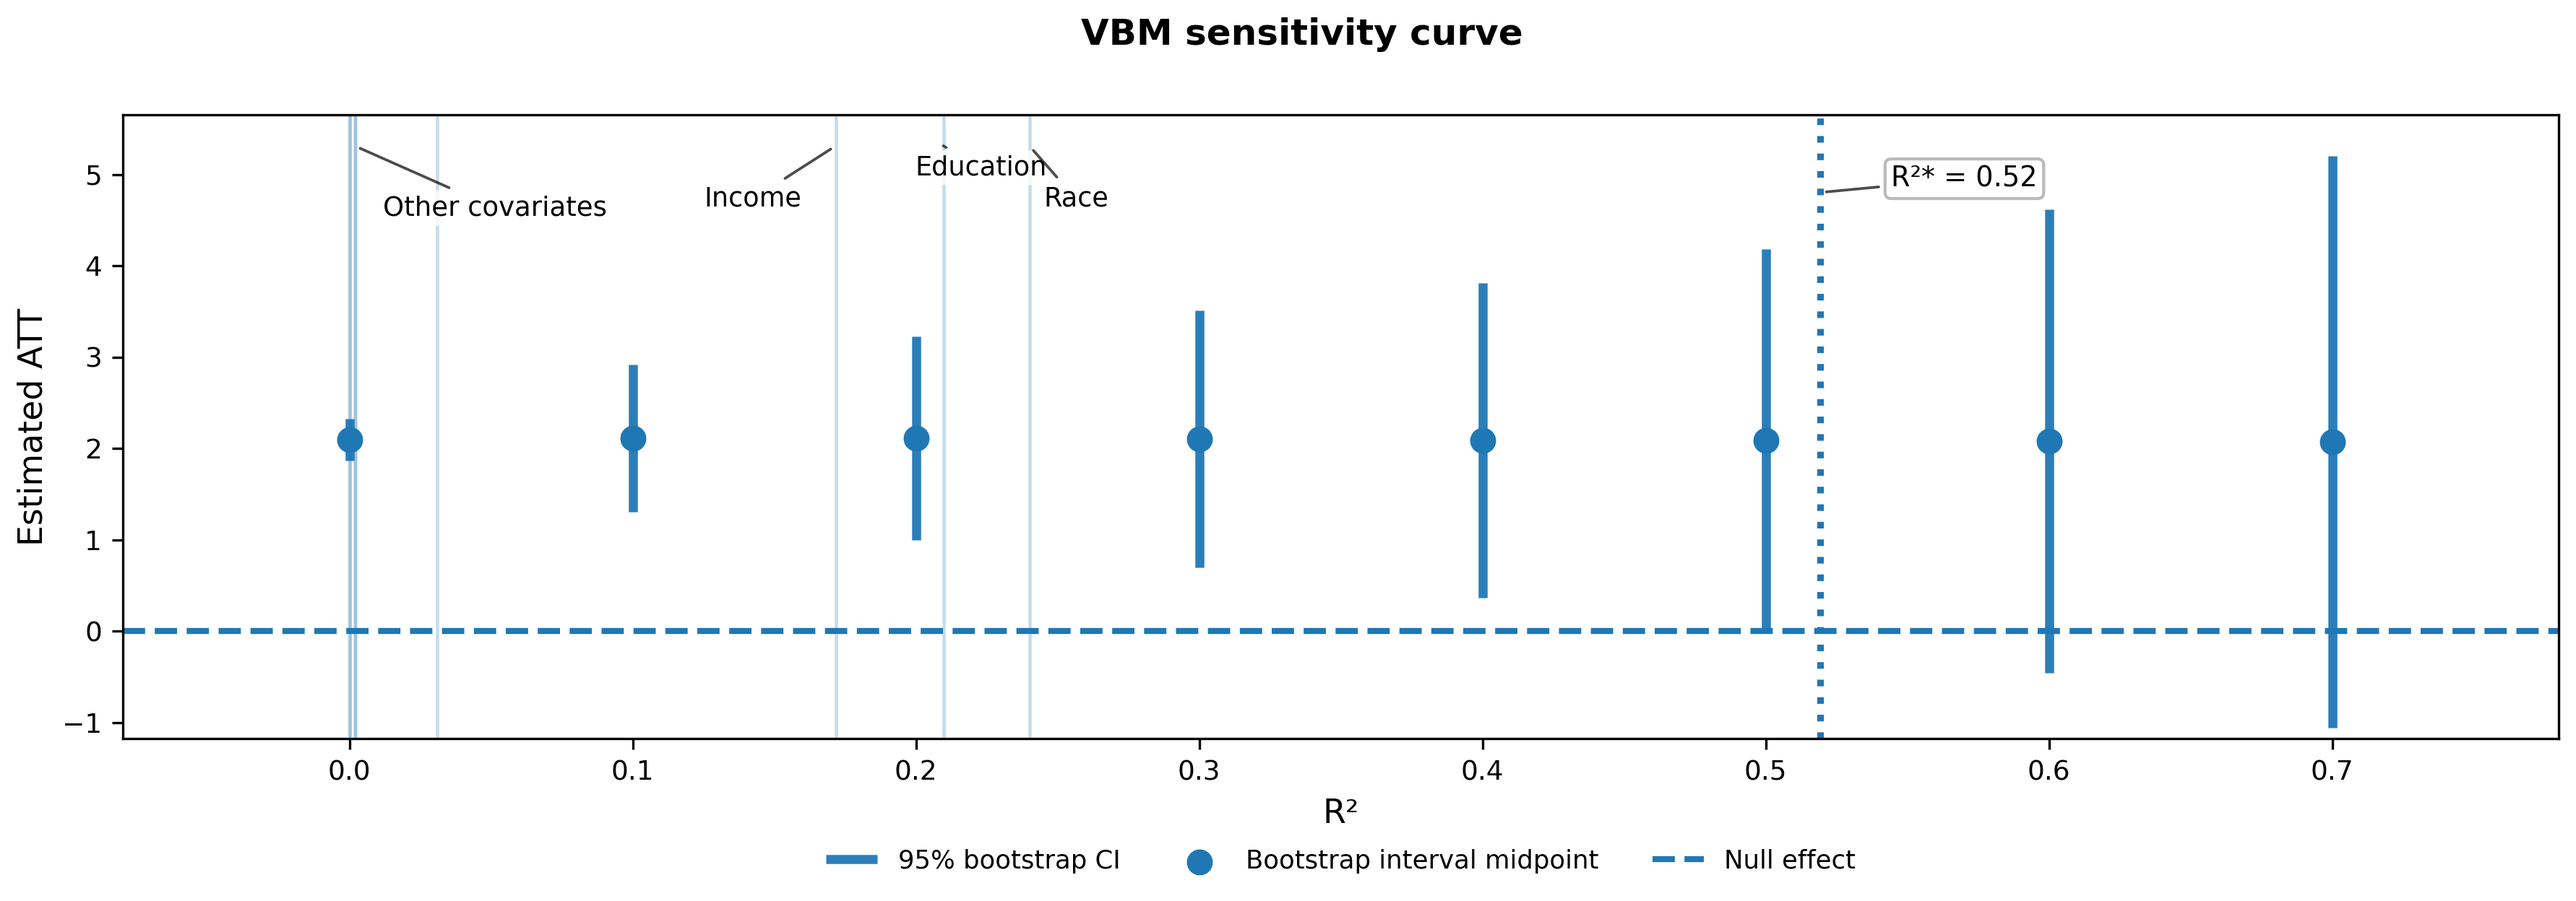
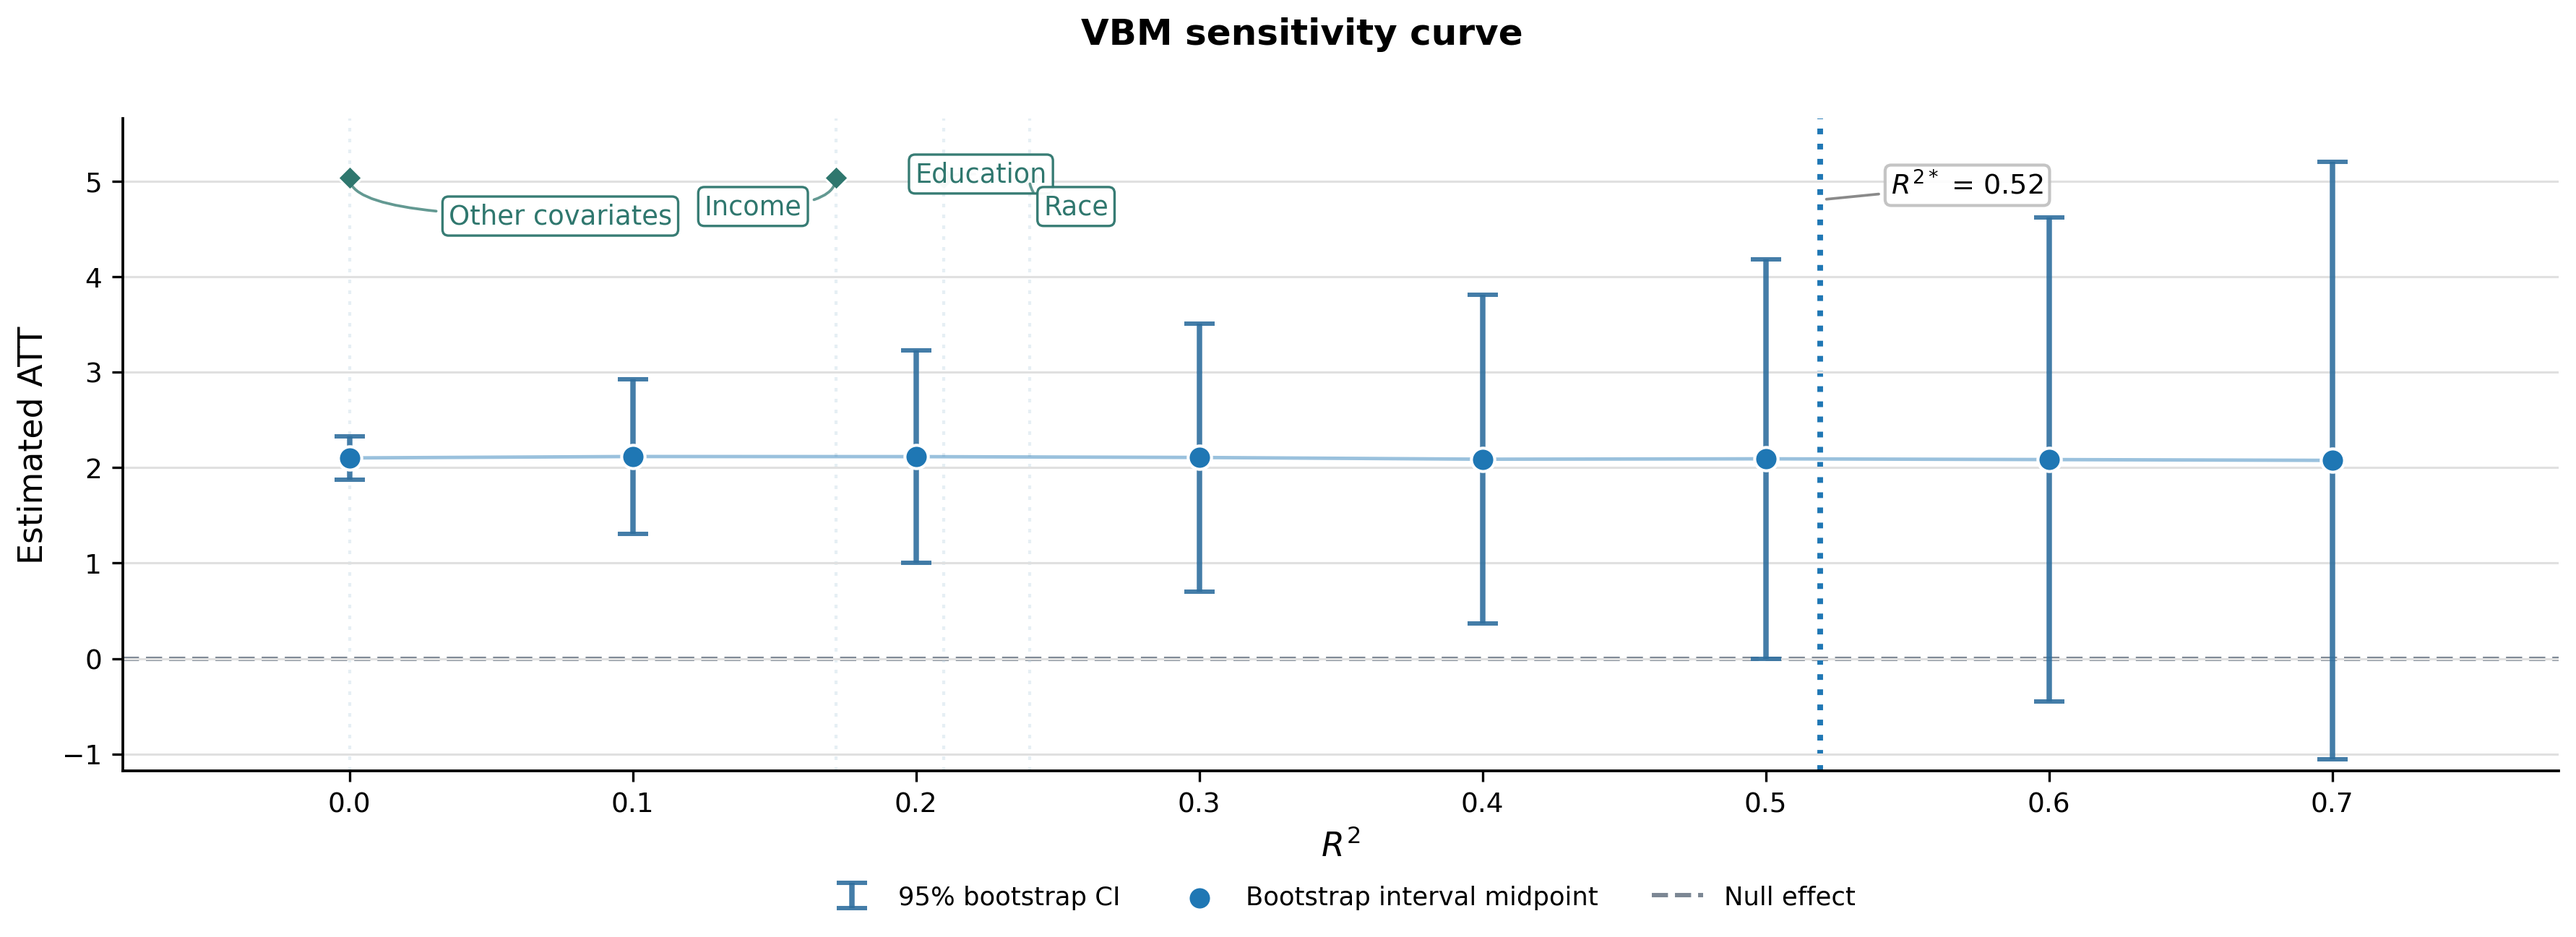
modify plot fig1

diff --git a/scripts/enhanced_plots.py b/scripts/enhanced_plots.py
@@ -218,32 +218,73 @@ def make_figure1(input_dir: Path, output_dir: Path) -> None:
         & (bmk["sensitivity_value"] <= xlim[1])
     ].copy()
 
-    fig, ax = plt.subplots(figsize=(14.5, 4.5))
+    # The left-cluster benchmark lines are visually indistinguishable at this scale.
+    # Plot them as a single grouped reference line at R2 = 0.
+    other_vars = {
+        "gender",
+        "age",
+        "income_missing",
+        "cig_smoked",
+        "smoking_history",
+    }
+    left_cluster_benchmark = bmk["variable"].isin(other_vars)
+    bmk["plot_x"] = bmk["sensitivity_value"].where(~left_cluster_benchmark, 0.0)
+
+    fig, ax = plt.subplots(figsize=(14.5, 4.7))
 
     # ---------------- Main plot ----------------
-    ax.vlines(
+    ci_color = "#2F6F9F"
+    point_color = "#1F77B4"
+    null_color = "#7C8794"
+    benchmark_color = "#A8C6DA"
+    label_color = "#2F776E"
+
+    yerr = np.vstack(
+        [
+            midpoints - ci_lower,
+            ci_upper - midpoints,
+        ]
+    )
+
+    ax.errorbar(
         xs,
-        ci_lower,
-        ci_upper,
-        linewidth=3,
-        color="#1f77b4",
-        alpha=0.95,
+        midpoints,
+        yerr=yerr,
+        fmt="none",
+        ecolor=ci_color,
+        elinewidth=1.8,
+        capsize=5.0,
+        capthick=1.45,
+        alpha=0.9,
         label="95% bootstrap CI",
-        zorder=1,
+        zorder=2,
+    )
+
+    ax.plot(
+        xs,
+        midpoints,
+        color=point_color,
+        linewidth=1.15,
+        alpha=0.45,
+        zorder=2.5,
     )
 
     ax.scatter(
         xs,
         midpoints,
-        s=58,
+        s=60,
+        color=point_color,
+        edgecolor="white",
+        linewidth=1.0,
         label="Bootstrap interval midpoint",
         zorder=3,
     )
 
     ax.axhline(
         0,
-        linewidth=2.0,
+        linewidth=1.45,
         linestyle="--",
+        color=null_color,
         label="Null effect",
         zorder=0,
     )
@@ -251,16 +292,19 @@ def make_figure1(input_dir: Path, output_dir: Path) -> None:
     if np.isfinite(r2_star):
         ax.axvline(
             r2_star,
-            linewidth=2.2,
+            linewidth=1.9,
             linestyle=":",
+            color=point_color,
             zorder=0,
         )
 
-    for _, row in bmk.iterrows():
+    for x in sorted(bmk["plot_x"].dropna().unique()):
         ax.axvline(
-            float(row["sensitivity_value"]),
-            linewidth=1.1,
-            alpha=0.25,
+            float(x),
+            linewidth=1.0,
+            color=benchmark_color,
+            alpha=0.28,
+            linestyle=(0, (1.2, 2.4)),
             zorder=0,
         )
 
@@ -271,7 +315,15 @@ def make_figure1(input_dir: Path, output_dir: Path) -> None:
     ax.set_ylim(ymin - 0.12, ymax + 0.45)
     y_top = ax.get_ylim()[1]
 
-    ax.set_xlabel("R²", fontsize=11)
+    ax.grid(True, axis="y", color="0.88", linewidth=0.75)
+    ax.grid(False, axis="x")
+    ax.set_axisbelow(True)
+    ax.spines["top"].set_visible(False)
+    ax.spines["right"].set_visible(False)
+    ax.spines["left"].set_linewidth(0.9)
+    ax.spines["bottom"].set_linewidth(0.9)
+
+    ax.set_xlabel(r"$R^2$", fontsize=11)
     ax.set_ylabel("Estimated ATT", fontsize=11)
     ax.tick_params(axis="both", labelsize=9)
 
@@ -282,7 +334,17 @@ def make_figure1(input_dir: Path, output_dir: Path) -> None:
         y=0.98,
     )
 
+    handles, labels = ax.get_legend_handles_labels()
+    legend_order = [
+        "95% bootstrap CI",
+        "Bootstrap interval midpoint",
+        "Null effect",
+    ]
+    by_label = dict(zip(labels, handles))
+
     ax.legend(
+        [by_label[label] for label in legend_order if label in by_label],
+        [label for label in legend_order if label in by_label],
         loc="upper center",
         bbox_to_anchor=(0.5, -0.14),
         ncol=3,
@@ -292,58 +354,94 @@ def make_figure1(input_dir: Path, output_dir: Path) -> None:
         columnspacing=2.1,
     )
 
-    # R²* annotation inside the main panel.
+    # R2* annotation inside the main panel.
     if np.isfinite(r2_star):
         ax.annotate(
-            f"R²* = {r2_star:.2f}",
+            rf"$R^{{2*}}$ = {r2_star:.2f}",
             xy=(r2_star, y_top - 0.85),
             xytext=(r2_star + 0.025, y_top - 0.55),
             ha="left",
             va="top",
             fontsize=9.2,
-            bbox=dict(boxstyle="round,pad=0.22", fc="white", ec="0.7", alpha=0.9),
+            bbox=dict(boxstyle="round,pad=0.22", fc="white", ec="0.75", alpha=0.92),
             arrowprops=dict(
                 arrowstyle="-",
                 lw=0.9,
                 alpha=0.7,
+                color="0.35",
             ),
         )
 
-    # Group left-cluster covariates into a single central annotation.
-    other_vars = {
-        "gender",
-        "age",
-        "income_missing",
-        "cig_smoked",
-        "smoking_history",
-    }
+    label_box = dict(
+        boxstyle="round,pad=0.23",
+        fc="white",
+        ec=label_color,
+        lw=0.8,
+        alpha=0.96,
+    )
 
+    label_arrow = dict(
+        arrowstyle="-",
+        lw=0.9,
+        alpha=0.75,
+        color=label_color,
+        shrinkA=2,
+        shrinkB=2,
+        connectionstyle="angle3,angleA=0,angleB=90",
+    )
+
+    def annotate_benchmark_label(
+        text: str,
+        x_anchor: float,
+        x_text: float,
+        y_anchor: float,
+        y_text: float,
+        ha: str,
+        fontsize: float,
+    ) -> None:
+        ax.scatter(
+            [x_anchor],
+            [y_anchor],
+            marker="D",
+            s=32,
+            color=label_color,
+            edgecolor="white",
+            linewidth=0.7,
+            label="_nolegend_",
+            zorder=5,
+        )
+        ax.annotate(
+            text,
+            xy=(x_anchor, y_anchor),
+            xytext=(x_text, y_text),
+            ha=ha,
+            va="center",
+            fontsize=fontsize,
+            color=label_color,
+            arrowprops=label_arrow,
+            bbox=label_box,
+            zorder=6,
+        )
+
+    # Group left-cluster covariates into a single central annotation.
     other = bmk.loc[bmk["variable"].isin(other_vars)].copy()
     mid = bmk.loc[bmk["variable"].isin(["income", "race", "education"])].copy()
 
     # Single label for the left cluster.
     if not other.empty:
-        x_anchor = float(other["sensitivity_value"].median())
-        x_text = max(0.01, x_anchor + 0.01)
-        y_anchor = y_top - 0.34
+        x_anchor = float(other["plot_x"].median())
+        x_text = x_anchor + 0.035
+        y_anchor = y_top - 0.62
         y_text = y_top - 1.02
 
-        ax.annotate(
+        annotate_benchmark_label(
             "Other covariates",
-            xy=(x_anchor, y_anchor),
-            xytext=(x_text, y_text),
+            x_anchor=x_anchor,
+            x_text=x_text,
+            y_anchor=y_anchor,
+            y_text=y_text,
             ha="left",
-            va="center",
             fontsize=8.9,
-            arrowprops=dict(
-                arrowstyle="-",
-                lw=0.9,
-                alpha=0.7,
-                shrinkA=2,
-                shrinkB=2,
-            ),
-            bbox=dict(boxstyle="round,pad=0.18", fc="white", ec="none", alpha=0.82),
-            zorder=4,
         )
 
     # Key benchmark labels inside the main panel.
@@ -355,27 +453,19 @@ def make_figure1(input_dir: Path, output_dir: Path) -> None:
 
     for _, row in mid.iterrows():
         var = str(row["variable"])
-        x = float(row["sensitivity_value"])
+        x = float(row["plot_x"])
         pos = preferred_positions.get(var, {"dx": 0.01, "dy": 0.8, "ha": "left"})
-        y_anchor = y_top - 0.34
+        y_anchor = y_top - 0.62
         y_text = y_top - pos["dy"]
 
-        ax.annotate(
+        annotate_benchmark_label(
             str(row["label"]),
-            xy=(x, y_anchor),
-            xytext=(x + pos["dx"], y_text),
+            x_anchor=x,
+            x_text=x + pos["dx"],
+            y_anchor=y_anchor,
+            y_text=y_text,
             ha=pos["ha"],
-            va="center",
             fontsize=8.8,
-            arrowprops=dict(
-                arrowstyle="-",
-                lw=0.9,
-                alpha=0.7,
-                shrinkA=2,
-                shrinkB=2,
-            ),
-            bbox=dict(boxstyle="round,pad=0.16", fc="white", ec="none", alpha=0.82),
-            zorder=4,
         )
 
     fig.subplots_adjust(bottom=0.24, top=0.88)
